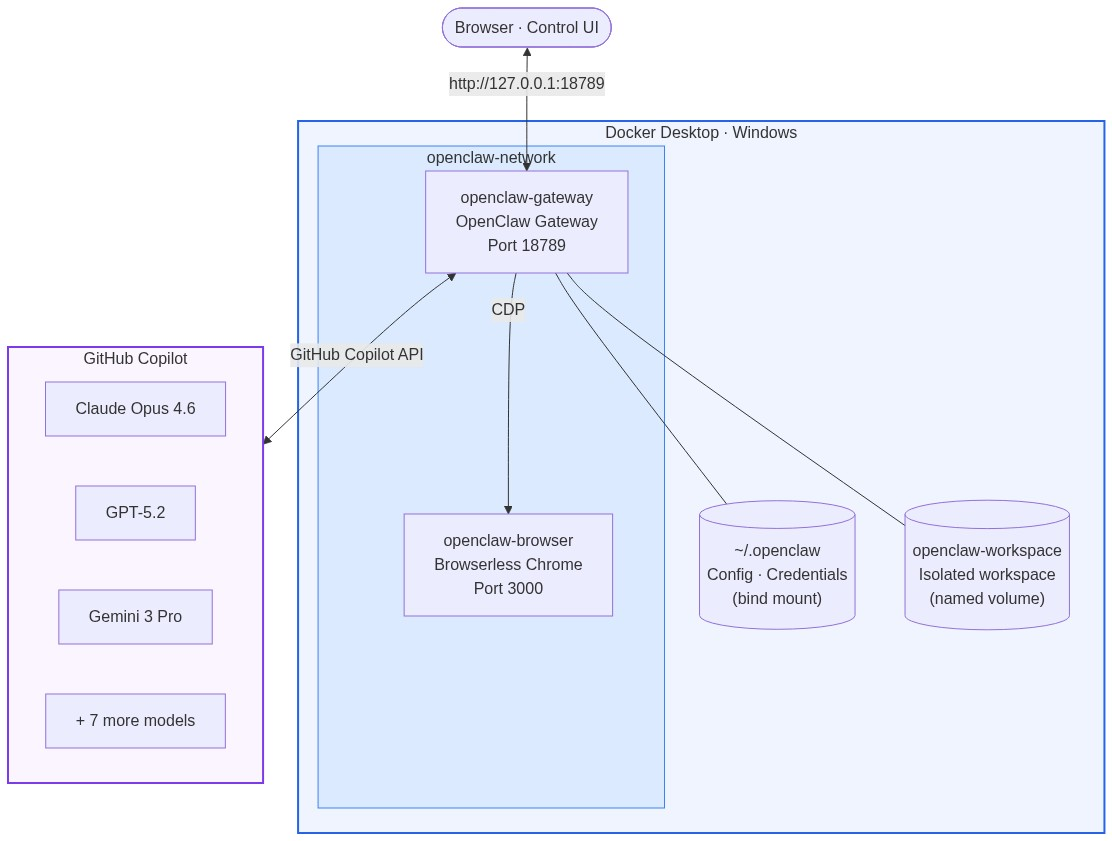
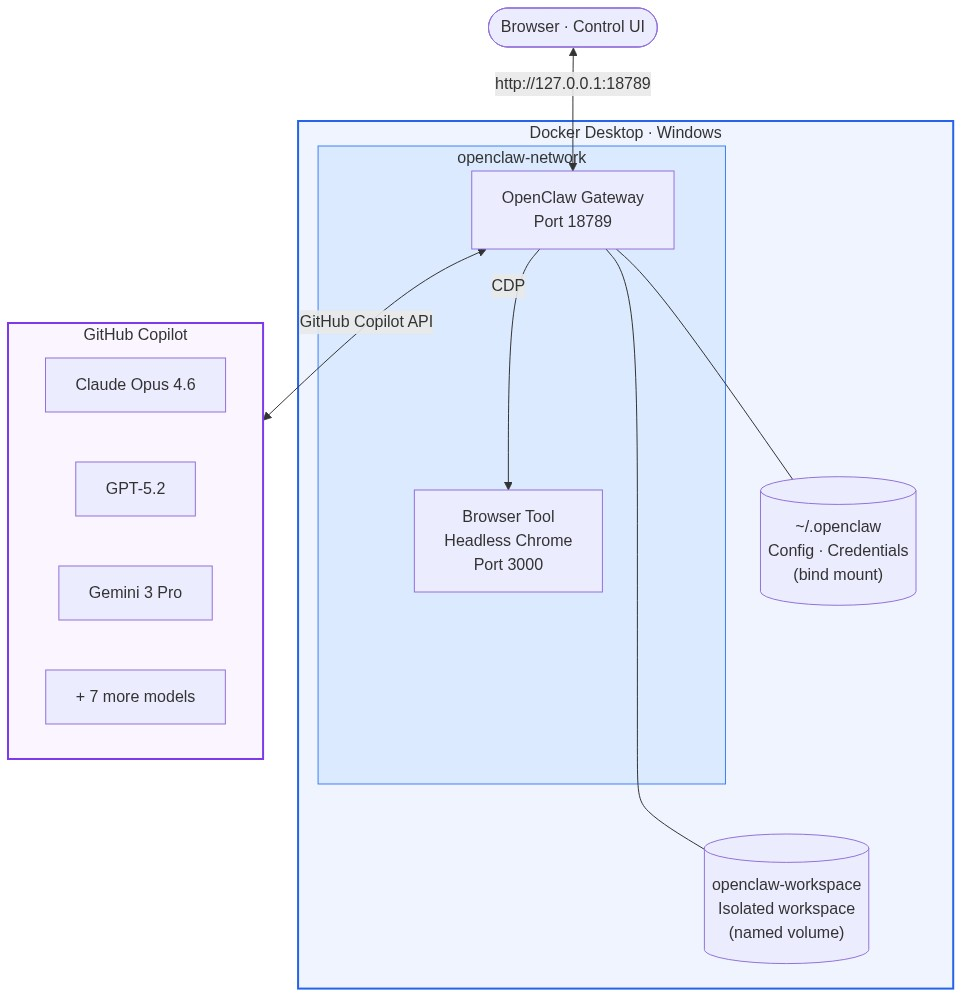
docs: simplify diagram labels, fix browser placement, regenerate PNG

diff --git a/README.md b/README.md
@@ -29,17 +29,16 @@ flowchart TB
 
     subgraph docker["Docker Desktop · Windows"]
         subgraph net["openclaw-network"]
-            gw["openclaw-gateway<br/>OpenClaw Gateway<br/>Port 18789"]
-            browser["openclaw-browser<br/>Browserless Chrome<br/>Port 3000"]
+            gw["OpenClaw Gateway<br/>Port 18789"]
+            browser["Browser Tool<br/>Headless Chrome<br/>Port 3000"]
+            gw -->|CDP| browser
         end
-        gw -->|CDP| browser
         bind[("~/.openclaw<br/>Config · Credentials<br/>(bind mount)")]
         vol[("openclaw-workspace<br/>Isolated workspace<br/>(named volume)")]
         gw --- bind
         gw --- vol
+        bind ~~~ vol
     end
-
-    gw <-->|"GitHub Copilot API"| copilot
 
     subgraph copilot["GitHub Copilot"]
         opus["Claude Opus 4.6"]
@@ -47,6 +46,8 @@ flowchart TB
         gem["Gemini 3 Pro"]
         more["+ 7 more models"]
     end
+
+    gw <-->|"GitHub Copilot API"| copilot
 
     style docker fill:#f0f4ff,stroke:#2563eb,stroke-width:2px
     style net fill:#dbeafe,stroke:#3b82f6,stroke-width:1px
